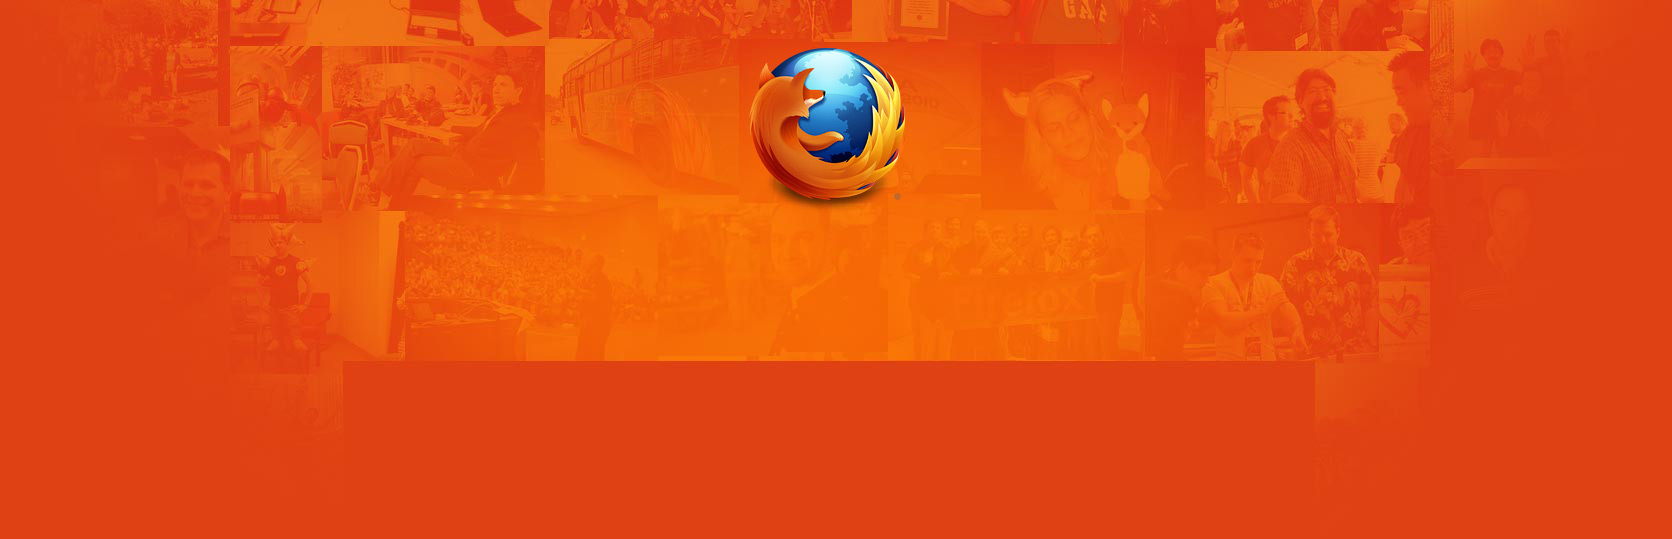
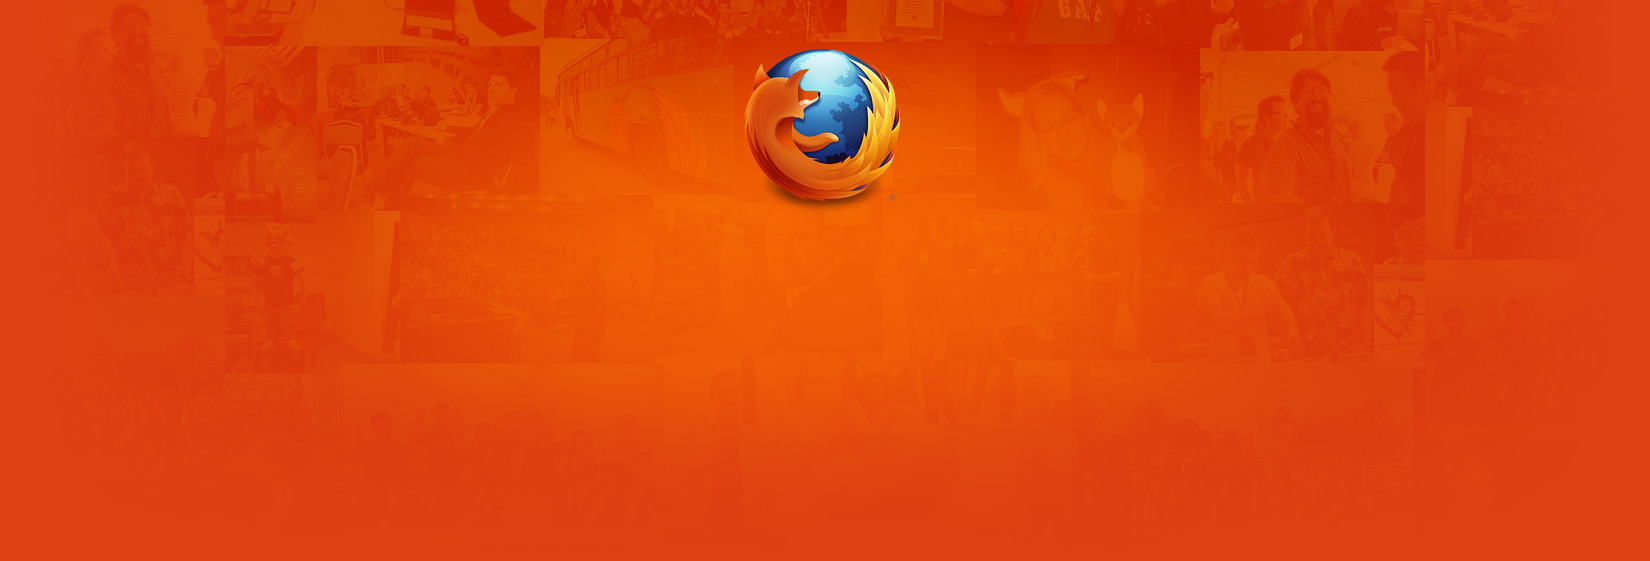
Make firstrun page variable width for Bug 707168 - First run page is cut off and just looks strange
git-svn-id: svn+ssh://svn.mozilla.org/projects/mozilla.com/trunk@98353 4eb1ac78-321c-0410-a911-ec516a8615a5

diff --git a/en-US/firefox/8.0/firstrun/index.html b/en-US/firefox/8.0/firstrun/index.html
@@ -43,7 +43,7 @@ EXTRA_HEADERS;
             </video>
         </div>
 
-
+        <div id="sub-features">
           <div id="newsletter-signup">
               <h3>Keep in touch</h3>
             <form id="email-form" class="<?= $status ?>" action="#" method="post">
@@ -95,6 +95,7 @@ EXTRA_HEADERS;
[1 lines of base64/hex data omitted]
                Get Firefox for Android&nbsp;&raquo;</a>
           </div>
+        </div>
         <div class="footer-links">
             <a href="/firefox/central/">Tour</a> &nbsp;|&nbsp;
             <a href="/firefox/features/">Desktop</a> &nbsp;|&nbsp;

diff --git a/style/firefox/8/firstrun-page.css b/style/firefox/8/firstrun-page.css
@@ -38,28 +38,30 @@ header#feature h2 em {
     margin: 0;
 }
 
+#video,
 #video-player {
-    width: 640px;
+    width: 100%;
+    max-width: 640px;
+    height: auto;
     margin: 0 auto;
 }
+
+
 
 /* }}} */
 /* {{{ Newsletter Feature */
 
+
+.promo,
 #newsletter-signup {
-    float: left;
-    width: 350px;
-    margin-left: 120px;
-}
-
-/* }}} */
-/* {{{ Mobile Promo */
-
-.promo {
-    float: right;
+    display: inline-block;
     width: 350px;
     text-align: center;
-    margin-right: 120px;
+    vertical-align: top;
+}
+
+#sub-features {
+    text-align: center;
 }
 
 /* }}} */
@@ -99,6 +101,7 @@ header#feature h2 em {
 }
 
 /* }}} */
+
 html {
     min-height: 100%;
 }
@@ -115,12 +118,22 @@ body {
     background: #df4114 url(/img/firefox/firstrun/background-mosaic.jpg) 50% 0 no-repeat;
     min-height: 100%;
     height: 100%;
-    min-width: 980px;
+    min-width: 400px;
     line-height: 1.4em;
     font-family: Georgia, serif;
     font-size: 16px;
     color: #484848;
 }
+
+#wrapper {
+    min-width: 400px;
+}
+
+#doc {
+    width: auto;
+    max-width: 980px;
+}
+
 #content h2 {
     position: relative;
     font-style: italic;
@@ -134,7 +147,6 @@ body {
 
 .promo {
     font-style: italic;
-    float: right;
 }
 .promo a,
 #newsletter-signup input[type=submit] {
@@ -166,7 +178,6 @@ body {
 /** Newsletter */
 #newsletter-signup {
     position: relative;
-    float: left;
     text-align: center;
 }
 #newsletter-signup .more {
